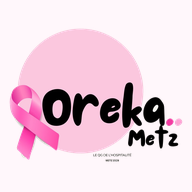
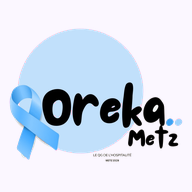
Passer le site en bleu pour Novembre Bleu.

Changed region(s): [[0.0312, 0.125, 0.75, 0.8438], [0.8438, 0.5938, 0.9688, 0.6562]]

diff --git a/index.html b/index.html
@@ -12,7 +12,7 @@
   <title>OREKA — Projet hôtelier de l’IAE Metz</title>
   <meta name="description" data-bind-content="metaDescription" content="Site officiel d’OREKA, 10 étudiantes et étudiants de l’IAE Metz en management et développement de systèmes hôteliers. Compte à rebours du jour J, partenaires et formulaire.">
   <meta name="author" content="Collectif OREKA">
-  <meta name="theme-color" content="#fff7fb">
+  <meta name="theme-color" content="#f2f7fc">
   <link rel="canonical" href="https://oreka-metz.github.io/">
   <meta property="og:type" content="website">
   <meta property="og:locale" content="fr_FR">
@@ -20,13 +20,13 @@
   <meta property="og:title" data-bind-content="ogTitle" content="OREKA — Le jour J, les partenaires">
   <meta property="og:description" data-bind-content="ogDescription" content="10 étudiants de l’IAE Metz. Jour J indicatif le 11 mars 2027. Hôtels, restaurants, traiteurs, animateurs et DJ.">
   <meta property="og:url" content="https://oreka-metz.github.io/">
-  <meta property="og:image" content="https://oreka-metz.github.io/assets/og.png">
+  <meta property="og:image" content="https://oreka-metz.github.io/assets/og.png?v=3">
   <meta property="og:image:width" content="1200">
   <meta property="og:image:height" content="630">
   <meta name="twitter:card" content="summary_large_image">
   <meta name="twitter:title" data-bind-content="twitterTitle" content="OREKA — Metz">
   <meta name="twitter:description" data-bind-content="twitterDescription" content="OREKA, projet de l’IAE Metz. Jour J indicatif le 11 mars 2027, partenaires et formulaire.">
-  <meta name="twitter:image" content="https://oreka-metz.github.io/assets/og.png">
+  <meta name="twitter:image" content="https://oreka-metz.github.io/assets/og.png?v=3">
   <link rel="icon" href="assets/favicon.svg" type="image/svg+xml">
   <link rel="apple-touch-icon" href="assets/icon-192.png">
   <link rel="manifest" href="site.webmanifest">
@@ -39,7 +39,7 @@
     "name": "OREKA",
     "description": "Projet de 10 étudiantes et étudiants de l’IAE Metz, en management et développement de systèmes hôteliers.",
     "url": "https://oreka-metz.github.io/",
-    "logo": "https://oreka-metz.github.io/assets/logo-officiel.png?v=2",
+    "logo": "https://oreka-metz.github.io/assets/logo-officiel.png?v=3",
     "address": {
       "@type": "PostalAddress",
       "addressLocality": "Metz",
@@ -56,7 +56,7 @@
   <header class="site-header">
     <div class="header-inner">
       <a class="brand" href="#jour" aria-label="Oreka Metz" data-bind-aria="brandLabel">
-        <img data-logo src="assets/logo-officiel.png?v=2" width="882" height="691" alt="">
+        <img data-logo src="assets/logo-officiel.png?v=3" width="882" height="691" alt="">
       </a>
       <button class="nav-toggle" type="button" aria-expanded="false" aria-controls="site-nav" data-bind="navMenu">Menu</button>
       <nav id="site-nav" class="site-nav" aria-label="Navigation principale" data-bind-aria="navAria">
@@ -73,7 +73,7 @@
     <section class="hero" id="jour" aria-labelledby="hero-title">
       <div class="wrap hero-open">
         <h1 id="hero-title" class="sr" data-bind="heroTitle">Oreka Metz, compte à rebours du jour J</h1>
-        <img class="hero-logo" data-logo src="assets/logo-officiel.png?v=2" width="882" height="691" alt="OREKA" data-bind-alt="heroLogoAlt">
+        <img class="hero-logo" data-logo src="assets/logo-officiel.png?v=3" width="882" height="691" alt="OREKA" data-bind-alt="heroLogoAlt">
         <p class="eyebrow" data-bind="eyebrow">Jour J · mars 2027</p>
         <div class="count" data-countdown aria-hidden="true">
           <div><strong data-count="days">00</strong><span data-bind="unitDays">jours</span></div>
@@ -240,7 +240,7 @@
     <div class="wrap footer-grid">
       <div>
         <a class="brand" href="#jour" aria-label="Oreka Metz" data-bind-aria="brandLabel">
-          <img data-logo src="assets/logo-officiel.png?v=2" width="882" height="691" alt="">
+          <img data-logo src="assets/logo-officiel.png?v=3" width="882" height="691" alt="">
         </a>
         <p data-bind="footer">Site officiel d’OREKA</p>
       </div>

diff --git a/reglages.html b/reglages.html
@@ -11,7 +11,7 @@
   <meta name="viewport" content="width=device-width, initial-scale=1">
   <title>Réglages — OREKA</title>
   <meta name="robots" content="noindex, nofollow">
-  <meta name="theme-color" content="#fff7fb">
+  <meta name="theme-color" content="#f2f7fc">
   <link rel="icon" href="assets/favicon.svg" type="image/svg+xml">
   <link rel="stylesheet" href="css/styles.css">
   <link rel="stylesheet" href="css/reglages.css">
@@ -75,20 +75,20 @@
         <h2>Couleurs</h2>
         <p class="help">Chaque nuance du site : fond, cartes, textes, liens, boutons, filets et pastilles des membres. L’aperçu montre le résultat.</p>
         <div class="color-grid">
-          <label>Fond <input data-color="bg" type="color" value="#fff7fb" data-default="#fff7fb"></label>
+          <label>Fond <input data-color="bg" type="color" value="#f2f7fc" data-default="#f2f7fc"></label>
           <label>Cartes <input data-color="surface" type="color" value="#ffffff" data-default="#ffffff"></label>
-          <label>Texte <input data-color="ink" type="color" value="#2a1220" data-default="#2a1220"></label>
-          <label>Texte secondaire <input data-color="muted" type="color" value="#5c3a4a" data-default="#5c3a4a"></label>
-          <label>Texte discret <input data-color="faint" type="color" value="#7a5364" data-default="#7a5364"></label>
-          <label>Rose <input data-color="pink" type="color" value="#f61c96" data-default="#f61c96"></label>
-          <label>Rose foncé <input data-color="pink2" type="color" value="#d01278" data-default="#d01278"></label>
-          <label>Rose doux <input data-color="pinkSoft" type="color" value="#c2187a" data-default="#c2187a"></label>
-          <label>Texte sur le rose <input data-color="inkOnPink" type="color" value="#2a1220" data-default="#2a1220"></label>
-          <label>Lien au survol <input data-color="linkHover" type="color" value="#8d105c" data-default="#8d105c"></label>
-          <label>Filets <input data-color="line" type="color" value="#e01386" data-default="#e01386"></label>
-          <label>Alerte <input data-color="alert" type="color" value="#9d1048" data-default="#9d1048"></label>
-          <label>Pastille claire <input data-color="memberLight" type="color" value="#ff8ec4" data-default="#ff8ec4"></label>
-          <label>Pastille très claire <input data-color="memberLight2" type="color" value="#ffe3f1" data-default="#ffe3f1"></label>
+          <label>Texte <input data-color="ink" type="color" value="#10243a" data-default="#10243a"></label>
+          <label>Texte secondaire <input data-color="muted" type="color" value="#3a5672" data-default="#3a5672"></label>
+          <label>Texte discret <input data-color="faint" type="color" value="#5d7692" data-default="#5d7692"></label>
+          <label>Bleu <input data-color="pink" type="color" value="#0c6ebd" data-default="#0c6ebd"></label>
+          <label>Bleu foncé <input data-color="pink2" type="color" value="#084e8c" data-default="#084e8c"></label>
+          <label>Bleu clair <input data-color="pinkSoft" type="color" value="#3c94d8" data-default="#3c94d8"></label>
+          <label>Texte sur le bleu <input data-color="inkOnPink" type="color" value="#ffffff" data-default="#ffffff"></label>
+          <label>Lien au survol <input data-color="linkHover" type="color" value="#063864" data-default="#063864"></label>
+          <label>Filets <input data-color="line" type="color" value="#1a78c4" data-default="#1a78c4"></label>
+          <label>Alerte <input data-color="alert" type="color" value="#0a3a66" data-default="#0a3a66"></label>
+          <label>Pastille claire <input data-color="memberLight" type="color" value="#1d74b8" data-default="#1d74b8"></label>
+          <label>Pastille très claire <input data-color="memberLight2" type="color" value="#2f86c8" data-default="#2f86c8"></label>
         </div>
       </section>
 

diff --git a/mentions.html b/mentions.html
@@ -11,7 +11,7 @@
   <meta name="viewport" content="width=device-width, initial-scale=1">
   <title>Mentions légales — OREKA</title>
   <meta name="description" data-bind-content="mentionsDescription" content="Mentions légales du site officiel du collectif universitaire OREKA, à Metz.">
-  <meta name="theme-color" content="#fff7fb">
+  <meta name="theme-color" content="#f2f7fc">
   <link rel="icon" href="assets/favicon.svg" type="image/svg+xml">
   <link rel="stylesheet" href="css/styles.css">
   <script>document.documentElement.classList.replace("no-js","js");</script>
@@ -22,7 +22,7 @@
   <header class="site-header">
     <div class="header-inner">
       <a class="brand" href="index.html" aria-label="Oreka Metz" data-bind-aria="brandLabel">
-        <img data-logo src="assets/logo-officiel.png?v=2" width="882" height="691" alt="">
+        <img data-logo src="assets/logo-officiel.png?v=3" width="882" height="691" alt="">
       </a>
       <button class="nav-toggle" type="button" aria-expanded="false" aria-controls="site-nav" data-bind="navMenu">Menu</button>
       <nav id="site-nav" class="site-nav" aria-label="Navigation principale" data-bind-aria="navAria">

diff --git a/css/styles.css b/css/styles.css
@@ -23,22 +23,22 @@
 }
 
 :root {
-  --bg: #fff7fb;
+  --bg: #f2f7fc;
   --surface: #ffffff;
   --bg-raise: var(--surface);
-  --ink: #2a1220;
-  --muted: #5c3a4a;
-  --faint: #7a5364;
-  --line-color: #e01386;
+  --ink: #10243a;
+  --muted: #3a5672;
+  --faint: #5d7692;
+  --line-color: #1a78c4;
   --line: color-mix(in srgb, var(--line-color) 22%, transparent);
-  --pink: #f61c96;
-  --pink-2: #d01278;
-  --pink-soft: #c2187a;
-  --ink-on-pink: #2a1220;
-  --link-hover: #8d105c;
-  --alert: #9d1048;
-  --member-light: #ff8ec4;
-  --member-light-2: #ffe3f1;
+  --pink: #0c6ebd;
+  --pink-2: #084e8c;
+  --pink-soft: #3c94d8;
+  --ink-on-pink: #ffffff;
+  --link-hover: #063864;
+  --alert: #0a3a66;
+  --member-light: #1d74b8;
+  --member-light-2: #2f86c8;
   --serif: "Fraunces", "Iowan Old Style", Palatino, Georgia, serif;
   --sans: "Manrope", "Segoe UI", sans-serif;
   --shadow: 0 18px 40px color-mix(in srgb, var(--pink) 12%, transparent);

diff --git a/js/text-catalog.js b/js/text-catalog.js
@@ -1,18 +1,18 @@
 window.OREKA_COLOR_DEFAULTS = {
-  bg: "#fff7fb",
+  bg: "#f2f7fc",
   surface: "#ffffff",
-  ink: "#2a1220",
-  muted: "#5c3a4a",
-  faint: "#7a5364",
-  pink: "#f61c96",
-  pink2: "#d01278",
-  pinkSoft: "#c2187a",
-  inkOnPink: "#2a1220",
-  linkHover: "#8d105c",
-  line: "#e01386",
-  alert: "#9d1048",
-  memberLight: "#ff8ec4",
-  memberLight2: "#ffe3f1"
+  ink: "#10243a",
+  muted: "#3a5672",
+  faint: "#5d7692",
+  pink: "#0c6ebd",
+  pink2: "#084e8c",
+  pinkSoft: "#3c94d8",
+  inkOnPink: "#ffffff",
+  linkHover: "#063864",
+  line: "#1a78c4",
+  alert: "#0a3a66",
+  memberLight: "#1d74b8",
+  memberLight2: "#2f86c8"
 };
 
 window.OREKA_TEXT_GROUPS = [

diff --git a/js/main.js b/js/main.js
@@ -204,10 +204,10 @@
     }
 
     function draw(time) {
-      const pink = paintColor("--pink", "#f61c96");
-      const soft = paintColor("--pink-soft", "#c2187a");
-      const deep = paintColor("--pink-2", "#d01278");
-      const ink = paintColor("--ink", "#2a1220");
+      const pink = paintColor("--pink", "#0c6ebd");
+      const soft = paintColor("--pink-soft", "#3c94d8");
+      const deep = paintColor("--pink-2", "#084e8c");
+      const ink = paintColor("--ink", "#10243a");
       const dpr = Math.min(window.devicePixelRatio || 1, 2);
       const w = canvas.clientWidth || 300;
       const h = canvas.clientHeight || 220;

diff --git a/css/reglages.css b/css/reglages.css
@@ -45,9 +45,9 @@ body { background: var(--bg); }
   width: 140px;
   height: auto;
   background:
-    linear-gradient(45deg, #f3d5e6 25%, transparent 25%),
-    linear-gradient(-45deg, #f3d5e6 25%, transparent 25%),
-    #fff7fb;
+    linear-gradient(45deg, #d5e4f3 25%, transparent 25%),
+    linear-gradient(-45deg, #d5e4f3 25%, transparent 25%),
+    #f2f7fc;
   background-size: 16px 16px;
   border-radius: 12px;
 }
@@ -84,7 +84,7 @@ input[type="color"] {
   margin-bottom: 0.7rem;
   border-radius: 16px;
   border: 1px solid var(--line);
-  background: #fff7fb;
+  background: #f2f7fc;
 }
 
 .partner-edit .row,

diff --git a/404.html b/404.html
@@ -19,7 +19,7 @@
   <header class="site-header">
     <div class="header-inner">
       <a class="brand" href="index.html" aria-label="Oreka Metz" data-bind-aria="brandLabel">
-        <img data-logo src="assets/logo-officiel.png?v=2" width="882" height="691" alt="">
+        <img data-logo src="assets/logo-officiel.png?v=3" width="882" height="691" alt="">
       </a>
       <a class="nav-cta" href="index.html#rejoindre" data-bind="navCta">Devenir partenaire</a>
     </div>

diff --git a/js/reglages.js b/js/reglages.js
@@ -269,7 +269,7 @@
       field.value = colors[key] || field.dataset.default || COLOR_DEFAULTS[key] || "#000000";
     });
     const logo = document.getElementById("logo-preview");
-    logo.src = data.logo || "assets/logo-officiel.png?v=2";
+    logo.src = data.logo || "assets/logo-officiel.png?v=3";
     logo.dataset.value = data.logo || "";
     renderMembers(data.members);
     renderPartners(data.partners || []);
